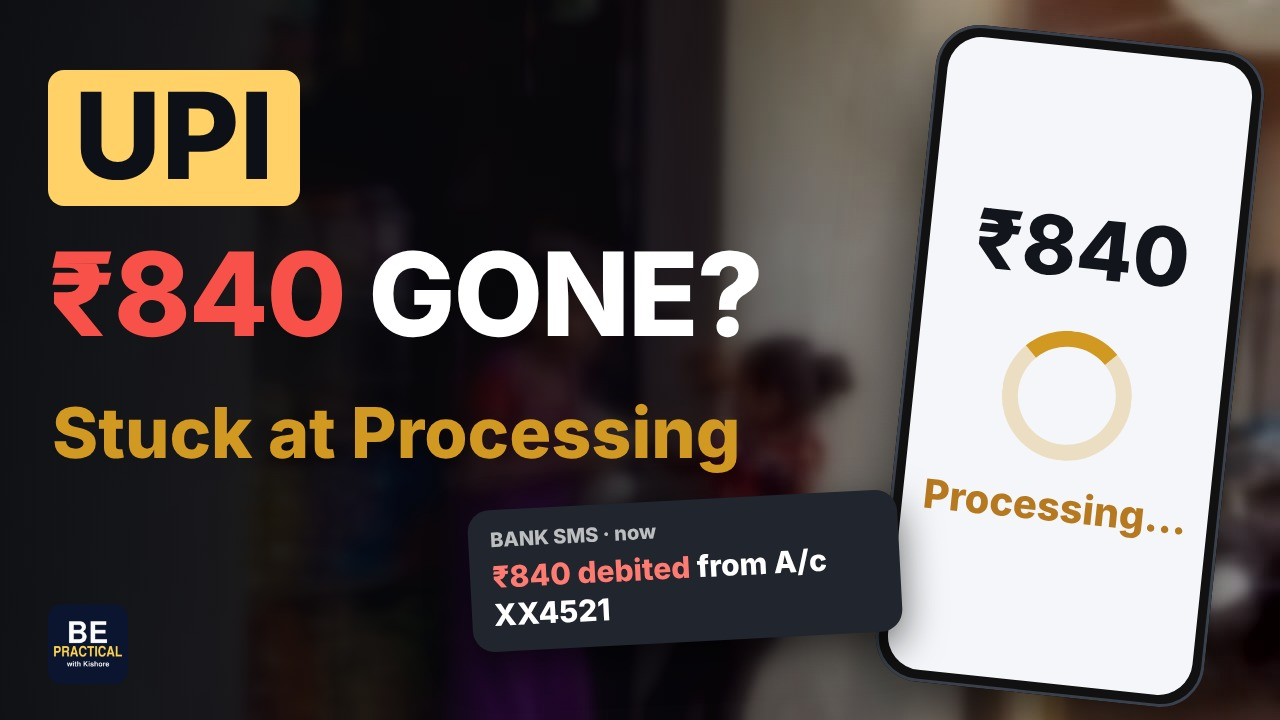
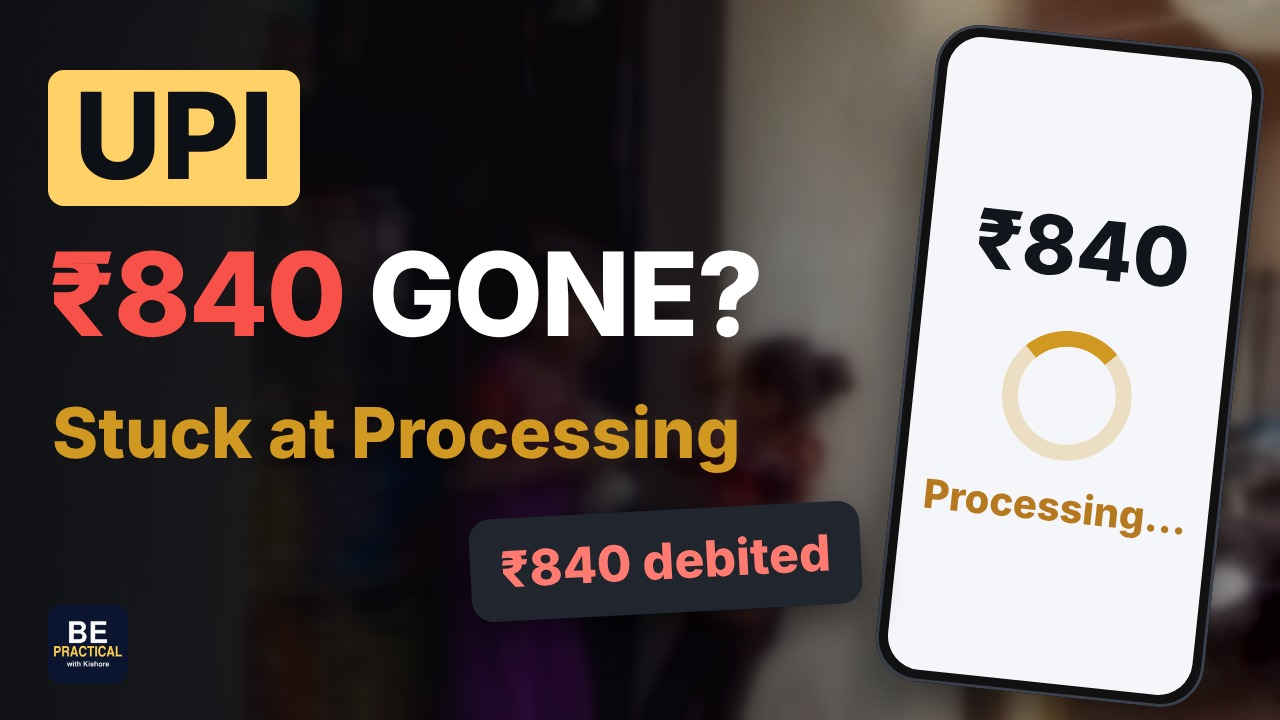
Film 01: final thumbnail B (bigger debit line), thumbnail review result
Claude-Session: https://claude.ai/code/session_01YUUN1LokijKa2yqR6w3YWp

Changed region(s): [[0.3438, 0.6722, 0.7188, 0.9167]]

diff --git a/projects/upi-money-deducted/youtube/thumb/thumb_b.html b/projects/upi-money-deducted/youtube/thumb/thumb_b.html
@@ -13,12 +13,12 @@
 .amt{font-size:82px}
 .spin{width:130px;height:130px;margin:34px auto 22px;border-radius:50%;border:16px solid rgba(210,153,34,.25);border-top-color:#d29922}
 .st{font-size:40px;color:#b7791f}
-.sms{position:absolute;left:470px;top:500px;width:430px;padding:18px 22px;border-radius:22px;background:#20252e;color:#fff;font-size:30px;line-height:1.25;box-shadow:0 14px 40px rgba(0,0,0,.6);transform:rotate(-3deg)}
+.sms{position:absolute;left:470px;top:510px;width:auto;padding:20px 30px;border-radius:22px;background:#20252e;color:#fff;font-size:50px;line-height:1.25;box-shadow:0 14px 40px rgba(0,0,0,.6);transform:rotate(-3deg)}
 .sms small{display:block;font-size:20px;opacity:.7;margin-bottom:6px}
 .sms b{color:#ff7b72}
 .logo{position:absolute;left:48px;bottom:36px;width:80px;height:80px;border-radius:14px}
 </style></head><body><div class="bg"></div><div class="sh"></div>
 <div class="upi">UPI</div><div class="t1"><b>₹840</b> GONE?</div><div class="t2">Stuck at Processing</div>
 <div class="phone"><div class="scr"><div class="amt">₹840</div><div class="spin"></div><div class="st">Processing…</div></div></div>
-<div class="sms"><small>BANK SMS · now</small><b>₹840 debited</b> from A/c XX4521</div>
+<div class="sms"><b>₹840 debited</b></div>
 <img class="logo" src="logo.png"></body></html>

diff --git a/projects/upi-money-deducted/youtube/description.md b/projects/upi-money-deducted/youtube/description.md
@@ -1,6 +1,6 @@
 # Film 01 · YouTube package (final cut: upi01_v7.mp4, 4:18)
 
-Thumbnail: `thumbnail_A.jpg` (built from `thumb/thumb.html`, shot with `scripts/_thumb_shot.mjs`).
+Thumbnail: `thumbnail_B.jpg` (independent review: clarity 9/10, click 8/10; A scored 5/5). Built from `thumb/thumb_b.html`, shot with `scripts/_thumb_shot.mjs`.
 
 ## Title
 ```
